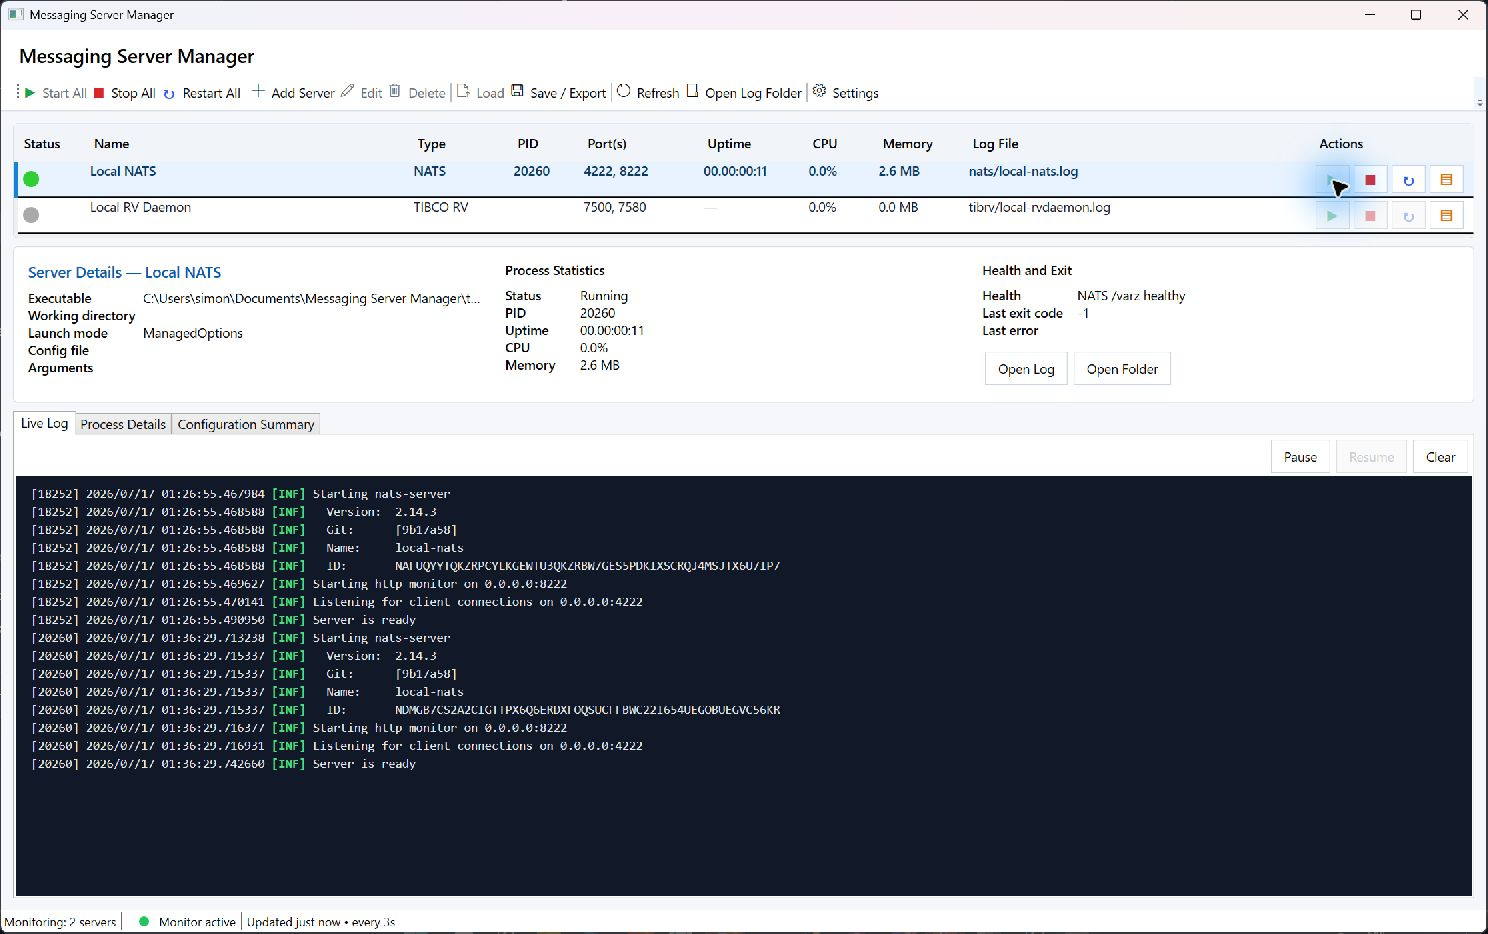
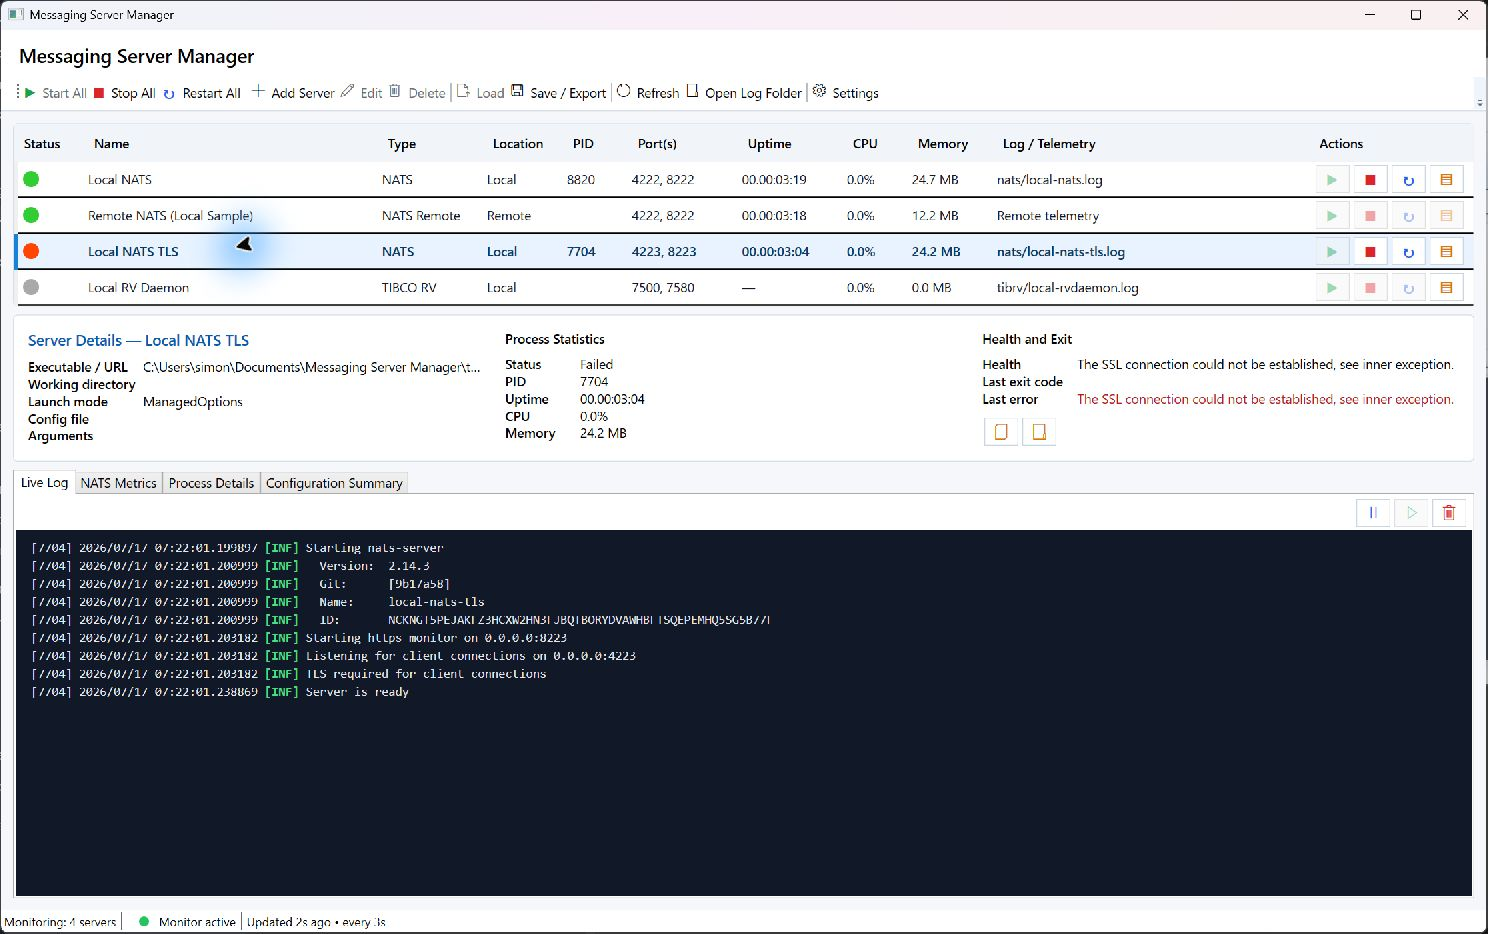
Expand NATS samples and refine monitoring UI

diff --git a/src/MessagingServerManager.App/MainWindow.xaml b/src/MessagingServerManager.App/MainWindow.xaml
@@ -19,7 +19,7 @@
   <StatusBar DockPanel.Dock="Bottom" Background="White"><TextBlock Text="{Binding Servers.Count,StringFormat=Monitoring: {0} servers}"/><Separator/><Ellipse Width="10" Height="10" Fill="#22C55E" Margin="12,0,4,0"/><TextBlock Text="Monitor active"/><Separator/><TextBlock Text="{Binding LastUpdatedText}" HorizontalAlignment="Right"/></StatusBar>
   <Grid Margin="12"><Grid.RowDefinitions><RowDefinition Height="Auto"/><RowDefinition Height="Auto"/><RowDefinition Height="*"/></Grid.RowDefinitions>
    <Border MinHeight="115" MaxHeight="330" Background="White" BorderBrush="#D7DEE8" BorderThickness="1" CornerRadius="4">
-    <DataGrid ItemsSource="{Binding Servers}" SelectedItem="{Binding Selected}" AutoGenerateColumns="False" IsReadOnly="True" CanUserSortColumns="True" HeadersVisibility="Column" GridLinesVisibility="Horizontal" BorderThickness="0" RowHeight="36">
+    <DataGrid ItemsSource="{Binding Servers}" SelectedItem="{Binding Selected}" AutoGenerateColumns="False" IsReadOnly="True" CanUserSortColumns="True" HeadersVisibility="Column" GridLinesVisibility="Horizontal" BorderThickness="0" RowHeight="36" VerticalScrollBarVisibility="Auto" HorizontalScrollBarVisibility="Auto">
      <DataGrid.Columns>
       <DataGridTemplateColumn Header="Status" Width="70" SortMemberPath="Status"><DataGridTemplateColumn.CellTemplate><DataTemplate><StackPanel Orientation="Horizontal" VerticalAlignment="Center" ToolTip="{Binding StatusTooltip}"><Ellipse Width="16" Height="16" Fill="{Binding StatusBrush}" Margin="5,0" VerticalAlignment="Center"/></StackPanel></DataTemplate></DataGridTemplateColumn.CellTemplate></DataGridTemplateColumn>
       <DataGridTextColumn Header="Name" Binding="{Binding Name}" Width="1.3*" ElementStyle="{StaticResource CenteredCellText}"/><DataGridTextColumn Header="Type" Binding="{Binding TypeText}" Width="105" ElementStyle="{StaticResource CenteredCellText}"/><DataGridTextColumn Header="Location" Binding="{Binding LocationText}" Width="80" ElementStyle="{StaticResource CenteredCellText}"/><DataGridTextColumn Header="PID" Binding="{Binding Pid}" Width="65" ElementStyle="{StaticResource CenteredCellText}"/><DataGridTextColumn Header="Port(s)" Binding="{Binding Ports}" SortMemberPath="PrimaryPort" Width="110" ElementStyle="{StaticResource CenteredCellText}"/><DataGridTextColumn Header="Uptime" Binding="{Binding UptimeText}" SortMemberPath="Uptime" Width="105" ElementStyle="{StaticResource CenteredCellText}"/><DataGridTextColumn Header="CPU" Binding="{Binding CpuText}" SortMemberPath="Cpu" Width="65" ElementStyle="{StaticResource CenteredCellText}"/><DataGridTextColumn Header="Memory" Binding="{Binding MemoryText}" SortMemberPath="Memory" Width="85" ElementStyle="{StaticResource CenteredCellText}"/><DataGridTextColumn Header="Log / Telemetry" Binding="{Binding LogFile}" Width="1.4*" ElementStyle="{StaticResource CenteredCellText}"/>
@@ -34,7 +34,7 @@
      <StackPanel Grid.Column="2"><TextBlock Text="Health and Exit" FontWeight="SemiBold" Margin="0,0,0,8"/><Grid><Grid.ColumnDefinitions><ColumnDefinition Width="95"/><ColumnDefinition/></Grid.ColumnDefinitions><Grid.RowDefinitions><RowDefinition/><RowDefinition/><RowDefinition/></Grid.RowDefinitions><TextBlock Text="Health" FontWeight="SemiBold"/><TextBlock Grid.Column="1" Text="{Binding Selected.Health}" TextWrapping="Wrap"/><TextBlock Grid.Row="1" Text="Last exit code" FontWeight="SemiBold"/><TextBlock Grid.Row="1" Grid.Column="1" Text="{Binding Selected.LastExitCode}"/><TextBlock Grid.Row="2" Text="Last error" FontWeight="SemiBold"/><TextBlock Grid.Row="2" Grid.Column="1" Text="{Binding Selected.LastError}" Foreground="#B91C1C" TextWrapping="Wrap"/></Grid><StackPanel Orientation="Horizontal" Margin="0,10,0,0"><Button Style="{StaticResource CompactActionButton}" Command="{Binding OpenLogCommand}" ToolTip="Open log file" AutomationProperties.Name="Open log file"><TextBlock FontFamily="Segoe MDL2 Assets" Text="&#xE8A5;" Foreground="#D97706" FontSize="16" VerticalAlignment="Center"/></Button><Button Style="{StaticResource CompactActionButton}" Command="{Binding OpenLogFolderCommand}" ToolTip="Open log folder" AutomationProperties.Name="Open log folder"><TextBlock FontFamily="Segoe MDL2 Assets" Text="&#xE8B7;" Foreground="#D97706" FontSize="16" VerticalAlignment="Center"/></Button></StackPanel></StackPanel>
     </Grid>
    </Border>
-   <TabControl Grid.Row="2" Background="White"><TabItem Header="Live Log"><DockPanel><StackPanel DockPanel.Dock="Top" Orientation="Horizontal" HorizontalAlignment="Right"><Button Command="{Binding PauseLogCommand}" Content="Pause"/><Button Command="{Binding ResumeLogCommand}" Content="Resume"/><Button Command="{Binding ClearLogCommand}" Content="Clear"/></StackPanel><RichTextBox local:RichTextBoxLogBehavior.Text="{Binding LogText}" IsReadOnly="True" IsReadOnlyCaretVisible="True" VerticalScrollBarVisibility="Auto" HorizontalScrollBarVisibility="Auto" FontFamily="Consolas" FontSize="12.5" Background="#111827" Foreground="#E5E7EB" Padding="10" BorderThickness="0"/></DockPanel></TabItem><TabItem Header="NATS Metrics"><TextBox Margin="15" Text="{Binding SelectedRemoteMetrics,Mode=OneWay}" IsReadOnly="True" TextWrapping="Wrap" FontFamily="Consolas" FontSize="13" Padding="8"/></TabItem><TabItem Header="Process Details"><Grid Margin="15"><Grid.ColumnDefinitions><ColumnDefinition/><ColumnDefinition/></Grid.ColumnDefinitions><StackPanel><TextBlock Text="{Binding Selected.Started,StringFormat=Started: {0:G}}"/><TextBlock Text="{Binding Selected.LastChecked,StringFormat=Last checked: {0:G}}"/><TextBlock Text="{Binding Selected.LastExitTime,StringFormat=Last exit: {0:G}}"/><TextBlock Text="{Binding Selected.LastExitCode,StringFormat=Exit code: {0}}"/><TextBlock Text="{Binding Selected.RestartCount,StringFormat=Restart count: {0}}"/></StackPanel><StackPanel Grid.Column="1"><TextBlock Text="Effective arguments or monitoring endpoint" FontWeight="SemiBold"/><TextBox Text="{Binding SelectedEffectiveArguments,Mode=OneWay}" IsReadOnly="True" TextWrapping="Wrap" Margin="0,6" Padding="6"/></StackPanel></Grid></TabItem><TabItem Header="Configuration Summary"><TextBox Margin="15" Text="{Binding SelectedConfigurationSummary,Mode=OneWay}" IsReadOnly="True" TextWrapping="Wrap" FontFamily="Consolas"/></TabItem></TabControl>
+   <TabControl Grid.Row="2" Background="White"><TabItem Header="Live Log"><DockPanel><StackPanel DockPanel.Dock="Top" Orientation="Horizontal" HorizontalAlignment="Right" Margin="0,2,3,2"><Button Style="{StaticResource CompactActionButton}" Command="{Binding PauseLogCommand}" ToolTip="Pause live log" AutomationProperties.Name="Pause live log"><TextBlock FontFamily="Segoe MDL2 Assets" Text="&#xE769;" Foreground="#2563EB" FontSize="15"/></Button><Button Style="{StaticResource CompactActionButton}" Command="{Binding ResumeLogCommand}" ToolTip="Resume live log" AutomationProperties.Name="Resume live log"><TextBlock FontFamily="Segoe MDL2 Assets" Text="&#xE768;" Foreground="#16A34A" FontSize="15"/></Button><Button Style="{StaticResource CompactActionButton}" Command="{Binding ClearLogCommand}" ToolTip="Clear log view" AutomationProperties.Name="Clear log view"><TextBlock FontFamily="Segoe MDL2 Assets" Text="&#xE74D;" Foreground="#DC2626" FontSize="15"/></Button></StackPanel><RichTextBox local:RichTextBoxLogBehavior.Text="{Binding LogText}" IsReadOnly="True" IsReadOnlyCaretVisible="True" VerticalScrollBarVisibility="Auto" HorizontalScrollBarVisibility="Auto" FontFamily="Consolas" FontSize="12.5" Background="#111827" Foreground="#E5E7EB" Padding="10" BorderThickness="0"/></DockPanel></TabItem><TabItem Header="NATS Metrics"><TextBox Margin="15" Text="{Binding SelectedRemoteMetrics,Mode=OneWay}" IsReadOnly="True" TextWrapping="Wrap" FontFamily="Consolas" FontSize="13" Padding="8"/></TabItem><TabItem Header="Process Details"><Grid Margin="15"><Grid.ColumnDefinitions><ColumnDefinition/><ColumnDefinition/></Grid.ColumnDefinitions><StackPanel><TextBlock Text="{Binding Selected.Started,StringFormat=Started: {0:G}}"/><TextBlock Text="{Binding Selected.LastChecked,StringFormat=Last checked: {0:G}}"/><TextBlock Text="{Binding Selected.LastExitTime,StringFormat=Last exit: {0:G}}"/><TextBlock Text="{Binding Selected.LastExitCode,StringFormat=Exit code: {0}}"/><TextBlock Text="{Binding Selected.RestartCount,StringFormat=Restart count: {0}}"/></StackPanel><StackPanel Grid.Column="1"><TextBlock Text="Effective arguments or monitoring endpoint" FontWeight="SemiBold"/><TextBox Text="{Binding SelectedEffectiveArguments,Mode=OneWay}" IsReadOnly="True" TextWrapping="Wrap" Margin="0,6" Padding="6"/></StackPanel></Grid></TabItem><TabItem Header="Configuration Summary"><TextBox Margin="15" Text="{Binding SelectedConfigurationSummary,Mode=OneWay}" IsReadOnly="True" TextWrapping="Wrap" FontFamily="Consolas"/></TabItem></TabControl>
   </Grid>
  </DockPanel>
 </Window>

diff --git a/src/MessagingServerManager.App/MainViewModel.cs b/src/MessagingServerManager.App/MainViewModel.cs
@@ -15,7 +15,14 @@ public sealed class MainViewModel:ObservableObject,IDisposable
  public MainViewModel(PathResolver p,IConfigurationStore s,ConfigurationTransferService configurationTransfer,IEnumerable<IServerAdapter> a,GlobalSettings settings){paths=p;store=s;transfer=configurationTransfer;adapters=a.ToDictionary(x=>x.ServerType);Settings=settings;processes=new(a,settings);processes.ProcessExited+=OnExited;relativeTimeTimer.Tick+=(_,_)=>Raise(nameof(LastUpdatedText));relativeTimeTimer.Start();AddServerCommand=new AsyncRelayCommand(AddAsync);EditServerCommand=new AsyncRelayCommand(EditAsync,()=>Selected is not null&&!Selected.CanStop);DeleteServerCommand=new AsyncRelayCommand(DeleteAsync,()=>Selected is not null&&!Selected.CanStop);ImportConfigurationCommand=new AsyncRelayCommand(ImportConfigurationAsync,()=>!Servers.Any(x=>x.CanStop));ExportConfigurationCommand=new AsyncRelayCommand(ExportConfigurationAsync);StartServerCommand=new AsyncRelayCommand<ServerRowViewModel>(async r=>{if(r is not null)await StartAsync(r);},r=>r?.CanStart==true);StopServerCommand=new AsyncRelayCommand<ServerRowViewModel>(async r=>{if(r is not null)await StopAsync(r);},r=>r?.CanStop==true);RestartServerCommand=new AsyncRelayCommand<ServerRowViewModel>(async r=>{if(r is not null)await RestartAsync(r);},r=>r?.CanStop==true);OpenServerLogCommand=new RelayCommand<ServerRowViewModel>(r=>{if(r is not null){Selected=r;OpenPath(LogPath(r),false);}},r=>r?.CanOpenLog==true);StartAllCommand=new AsyncRelayCommand(()=>ForEachAsync(x=>x.CanStart,StartAsync),()=>Servers.Any(x=>x.CanStart));StopAllCommand=new AsyncRelayCommand(()=>ForEachAsync(x=>x.CanStop,StopAsync),()=>Servers.Any(x=>x.CanStop));RestartAllCommand=new AsyncRelayCommand(()=>ForEachAsync(x=>x.CanStop,RestartAsync),()=>Servers.Any(x=>x.CanStop));RefreshCommand=new AsyncRelayCommand(RefreshAllAsync);OpenLogCommand=new RelayCommand(()=>OpenPath(LogPath(Selected!),false),()=>Selected?.CanOpenLog==true);OpenLogFolderCommand=new RelayCommand(()=>OpenPath(LogPath(Selected!),true),()=>Selected?.CanOpenLog==true);PauseLogCommand=new RelayCommand(PauseLog,()=>!IsLogPaused);ResumeLogCommand=new RelayCommand(ResumeLog,()=>IsLogPaused);ClearLogCommand=new RelayCommand(()=>LogText="");SettingsCommand=new AsyncRelayCommand(EditSettingsAsync);}
  public async Task InitializeAsync(){Directory.CreateDirectory(paths.Resolve(Settings.LoggingRootDirectory));Directory.CreateDirectory(paths.Resolve("sample-config"));await EnsureSamplesAsync();var envelope=await store.LoadAsync("servers.json",new ConfigurationEnvelope<List<ServerDefinition>>{Data=null!});var defs=envelope.Data??await store.LoadAsync("servers.json",Defaults());foreach(var d in defs)Servers.Add(new(d));if(envelope.Data is null)await SaveAsync();var runtime=await store.LoadAsync("runtime.json",new ConfigurationEnvelope<List<RuntimeProcessState>>{Data=[]});foreach(var state in runtime.Data){var row=Servers.FirstOrDefault(x=>x.Definition.Id==state.ServerId);if(row is null)continue;row.LastExitCode=state.LastExitCode;row.LastExitTime=state.LastExitTimeUtc?.ToLocalTime();row.RestartCount=state.RestartCount;if(row.Definition.Location==ServerLocation.Local&&state.ProcessId>0&&processes.TryRecover(row.Definition,state))await RefreshAsync(row);}Selected=Servers.FirstOrDefault();if(Settings.AutoStartEnabledServers)foreach(var r in Servers.Where(x=>x.CanStart&&x.Definition.StartWithApplication&&processes.Get(x.Definition.Id) is null))await StartAsync(r);await RefreshAllAsync();await SaveRuntimeAsync();_=MonitorLoopAsync(shutdown.Token);}
  async Task EnsureSamplesAsync(){var n=paths.Resolve("sample-config/nats-server.conf");if(!File.Exists(n))await File.WriteAllTextAsync(n,"server_name: local-nats\nport: 4222\nhttp: 8222\nlog_file: 'logs/nats/local-nats.log'\ndebug: false\ntrace: false\n");var r=paths.Resolve("sample-config/rvdaemon.args.txt");if(!File.Exists(r))await File.WriteAllTextAsync(r,"# Verify flags against your installed TIBCO RV version\n-service 7500 -http 7580\n");}
- static List<ServerDefinition> Defaults()=>[new(){Name="Local NATS",Enabled=false,Executable="nats-server.exe",LaunchMode=LaunchMode.ConfigFile,ConfigFilePath="sample-config/nats-server.conf",LogFilePath="nats/local-nats.log",Nats=new(){ServerName="local-nats",ClientPort=4222,MonitoringPort=8222}},new(){Name="Local RV Daemon",ServerType=ServerType.TibcoRendezvous,Enabled=false,Executable="rvdaemon.exe",LaunchMode=LaunchMode.ManagedOptions,LogFilePath="tibrv/local-rvdaemon.log",TibRv=new(){Service=7500,HttpAdministrationPort=7580}}];
+ static List<ServerDefinition> Defaults()=>
+ [
+  new(){Name="Local NATS",Enabled=false,Executable="nats-server.exe",LaunchMode=LaunchMode.ConfigFile,ConfigFilePath="sample-config/nats-server.conf",LogFilePath="nats/local-nats.log",Nats=new(){ServerName="local-nats",ClientPort=4222,MonitoringPort=8222}},
+  new(){Name="Remote NATS (Local Sample)",Location=ServerLocation.Remote,Enabled=true,HealthCheckHost="localhost",Nats=new(){ServerName="local-nats-remote-view",ClientPort=4222,MonitoringPort=8222}},
+  new(){Name="Local NATS TLS",Enabled=false,Executable="nats-server.exe",LaunchMode=LaunchMode.ManagedOptions,LogFilePath="nats/local-nats-tls.log",Nats=new(){ServerName="local-nats-tls",ClientPort=4223,MonitoringPort=8223,UseTls=true,TlsCertificatePath=TestCertificatePath("nats-server.pem"),TlsPrivateKeyPath=TestCertificatePath("nats-server.key"),TlsCaCertificatePath=TestCertificatePath("ca.pem")}},
+  new(){Name="Local RV Daemon",ServerType=ServerType.TibcoRendezvous,Enabled=false,Executable="rvdaemon.exe",LaunchMode=LaunchMode.ManagedOptions,LogFilePath="tibrv/local-rvdaemon.log",TibRv=new(){Service=7500,HttpAdministrationPort=7580}}
+ ];
+ static string TestCertificatePath(string fileName)=>Path.GetFullPath(Path.Combine(Environment.CurrentDirectory,"test-certificates",fileName));
  async Task MonitorLoopAsync(CancellationToken ct){try{while(!ct.IsCancellationRequested){var changed=monitoringIntervalChanged.Token;using var wait=CancellationTokenSource.CreateLinkedTokenSource(ct,changed);try{await Task.Delay(TimeSpan.FromSeconds(Math.Max(1,Settings.MonitoringIntervalSeconds)),wait.Token);}catch(OperationCanceledException)when(changed.IsCancellationRequested&&!ct.IsCancellationRequested){continue;}await RefreshAllAsync();if(!IsLogPaused)await RefreshLogAsync();}}catch(OperationCanceledException)when(ct.IsCancellationRequested){}}void ApplyMonitoringIntervalImmediately(){var previous=Interlocked.Exchange(ref monitoringIntervalChanged,new CancellationTokenSource());previous.Cancel();previous.Dispose();Raise(nameof(LastUpdatedText));}
  async Task RefreshAllAsync(){foreach(var r in Servers)await RefreshAsync(r);LastUpdated=DateTime.Now;}async Task RefreshAsync(ServerRowViewModel r){r.LastChecked=DateTime.Now;if(!r.Definition.Enabled){r.Pid=null;r.Cpu=0;r.Memory=0;r.Status=ServerStatus.Disabled;r.Health="Disabled";return;}if(r.Definition.Location==ServerLocation.Remote){await RefreshRemoteAsync(r);return;}var m=processes.Get(r.Definition.Id);if(m is null){r.Pid=null;r.Cpu=0;r.Memory=0;var validation=ServerValidator.Validate(r.Definition,Servers.Select(x=>x.Definition),paths.Resolve);r.Status=validation.IsValid?ServerStatus.Stopped:ServerStatus.Invalid;r.Health=validation.IsValid?"Process is stopped.":string.Join(" ",validation.Errors);return;}try{var p=m.Process;var now=DateTime.UtcNow;var started=p.StartTime.ToUniversalTime();var cpu=p.TotalProcessorTime;r.Cpu=CpuUsageCalculator.Calculate(cpu-m.PreviousCpu,now-m.PreviousSampleUtc,Environment.ProcessorCount);m.PreviousCpu=cpu;m.PreviousSampleUtc=now;r.Pid=p.Id;r.Started=started.ToLocalTime();r.Uptime=now-started;r.Memory=p.WorkingSet64;var h=await adapters[r.Definition.ServerType].CheckHealthAsync(r.Definition,new(p.Id,started,r.Definition.Executable),shutdown.Token);r.Health=h.Message;if(h.IsHealthy){r.Status=ServerStatus.Running;r.LastError=null;}else if(r.Uptime<TimeSpan.FromSeconds(Math.Max(0,r.Definition.HealthCheckGracePeriodSeconds)))r.Status=ServerStatus.Starting;else{r.Status=ServerStatus.Failed;r.LastError=h.Message;}}catch(OperationCanceledException)when(shutdown.IsCancellationRequested){}catch(Exception ex){r.LastError=ex.Message;r.Status=ServerStatus.Failed;}}async Task RefreshRemoteAsync(ServerRowViewModel r){r.Pid=null;var validation=ServerValidator.Validate(r.Definition,Servers.Select(x=>x.Definition),paths.Resolve);if(!validation.IsValid){r.Status=ServerStatus.Invalid;r.Health=string.Join(" ",validation.Errors);return;}try{if(adapters[r.Definition.ServerType] is not IRemoteServerMonitor monitor)throw new NotSupportedException("This server type does not support remote monitoring.");var telemetry=await monitor.GetTelemetryAsync(r.Definition,shutdown.Token);r.ApplyTelemetry(telemetry);r.Status=ServerStatus.Running;r.Health=$"Remote NATS {(r.Definition.Nats.UseTls?"HTTPS":"HTTP")} /varz healthy";r.LastError=null;if(Selected==r)Raise(nameof(SelectedRemoteMetrics));}catch(OperationCanceledException)when(shutdown.IsCancellationRequested){}catch(Exception ex){r.Status=ServerStatus.Failed;r.Health="Remote /varz unavailable";r.LastError=ex.Message;}}
  async Task StartAsync(ServerRowViewModel r){var v=ServerValidator.Validate(r.Definition,Servers.Select(x=>x.Definition),paths.Resolve);if(!v.IsValid){MessageBox.Show(string.Join("\n",v.Errors),"Cannot start",MessageBoxButton.OK,MessageBoxImage.Warning);return;}try{r.Status=ServerStatus.Starting;await processes.StartAsync(r.Definition,shutdown.Token);await RefreshAsync(r);await SaveRuntimeAsync();}catch(Exception ex){r.LastError=ex.Message;r.Status=ServerStatus.Failed;}RaiseCommands();}async Task StopAsync(ServerRowViewModel r){if(Settings.ConfirmForceKill&&r.Definition.ForceKillAfterTimeout&&MessageBox.Show("If graceful shutdown times out, the process tree will be force-killed. Continue?","Stop server",MessageBoxButton.YesNo,MessageBoxImage.Warning)!=MessageBoxResult.Yes)return;intentionalExits.Add(r.Definition.Id);r.Status=ServerStatus.Stopping;var x=await processes.StopAsync(r.Definition,shutdown.Token);if(!x.Stopped){intentionalExits.Remove(r.Definition.Id);r.LastError=x.Error;r.Status=ServerStatus.Failed;}else r.Status=ServerStatus.Stopped;await SaveRuntimeAsync();RaiseCommands();}async Task RestartAsync(ServerRowViewModel r){intentionalExits.Add(r.Definition.Id);r.Status=ServerStatus.Restarting;try{await processes.RestartAsync(r.Definition,shutdown.Token);r.RestartCount++;await RefreshAsync(r);await SaveRuntimeAsync();}catch(Exception ex){intentionalExits.Remove(r.Definition.Id);r.LastError=ex.Message;r.Status=ServerStatus.Failed;}RaiseCommands();}async Task ForEachAsync(Func<ServerRowViewModel,bool> f,Func<ServerRowViewModel,Task>a){foreach(var r in Servers.Where(f).ToList())await a(r);}

diff --git a/src/MessagingServerManager.ServerAdapters/Adapters.cs b/src/MessagingServerManager.ServerAdapters/Adapters.cs
@@ -123,7 +123,7 @@ public sealed class NatsServerAdapter : ServerAdapterBase, IRemoteServerMonitor
     private HttpClient? CreateCustomCaClient(ServerDefinition d)
     {
         if (!d.Nats.UseTls || string.IsNullOrWhiteSpace(d.Nats.TlsCaCertificatePath)) return null;
-        var ca = X509Certificate2.CreateFromPemFile(Paths.Resolve(d.Nats.TlsCaCertificatePath));
+        var ca = X509Certificate2.CreateFromPem(File.ReadAllText(Paths.Resolve(d.Nats.TlsCaCertificatePath)));
         var handler = new HttpClientHandler();
         handler.ServerCertificateCustomValidationCallback = (_, certificate, _, errors) =>
         {